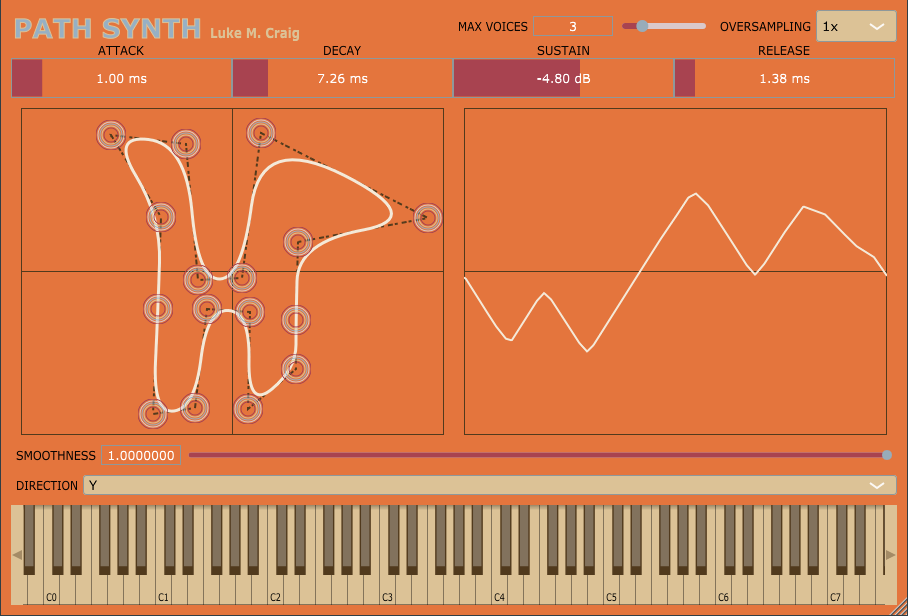
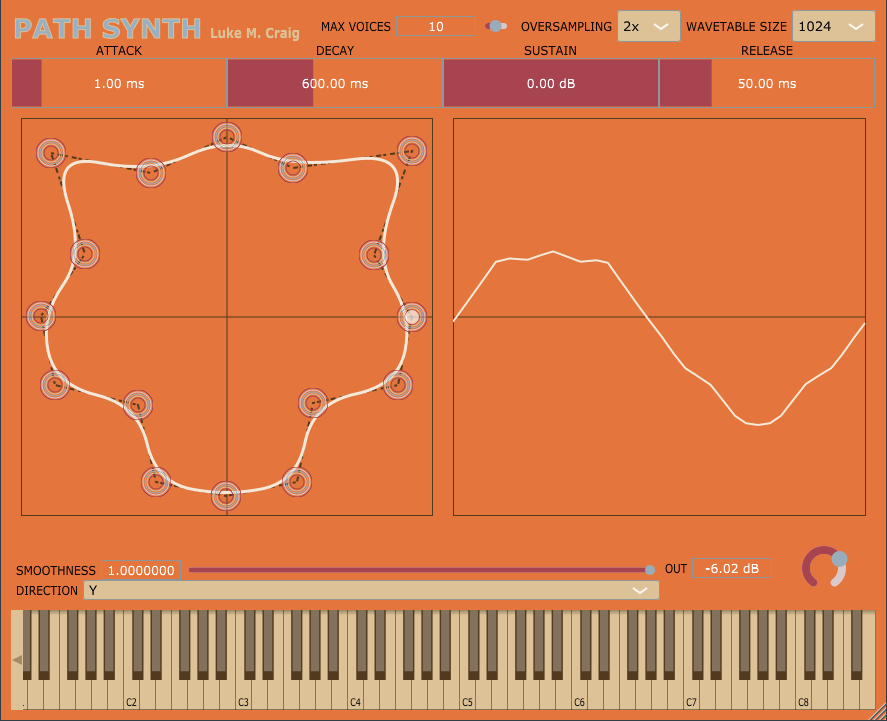
updated screenshot

diff --git a/Source/PluginProcessor.cpp b/Source/PluginProcessor.cpp
@@ -173,7 +173,7 @@ PathSynthAudioProcessor::PathSynthAudioProcessor(): AudioProcessor(
                                                                createParameterLayout()),
                                                     parameterVtsHelper(parameters)
 {
-    wavetable.resize(1024);
+    wavetable.resize(nextWavetableSize);
     for (auto i = 0; i < numVoices; ++i)
     {
         synthesiser.addVoice(new PathVoice(parameters, envParams, wavetable));

diff --git a/Source/PluginEditor.cpp b/Source/PluginEditor.cpp
@@ -157,8 +157,7 @@ void PathSynthAudioProcessorEditor::setLabelAreaAboveCentered(Label& label, Rect
 void PathSynthAudioProcessorEditor::resized()
 {
     auto area = getBounds();
-    DBG(area.getWidth());
-    DBG(area.getHeight());
+
     area.reduce(10, 10);
 
     auto titleArea = area.removeFromTop(32);

diff --git a/Source/PluginProcessor.h b/Source/PluginProcessor.h
@@ -101,7 +101,7 @@ private:
 
     DcBlocker dcBlocker;
 
-    int nextWavetableSize{2048};
+    int nextWavetableSize{1024};
     std::vector<float> wavetable;
 
     //==============================================================================
